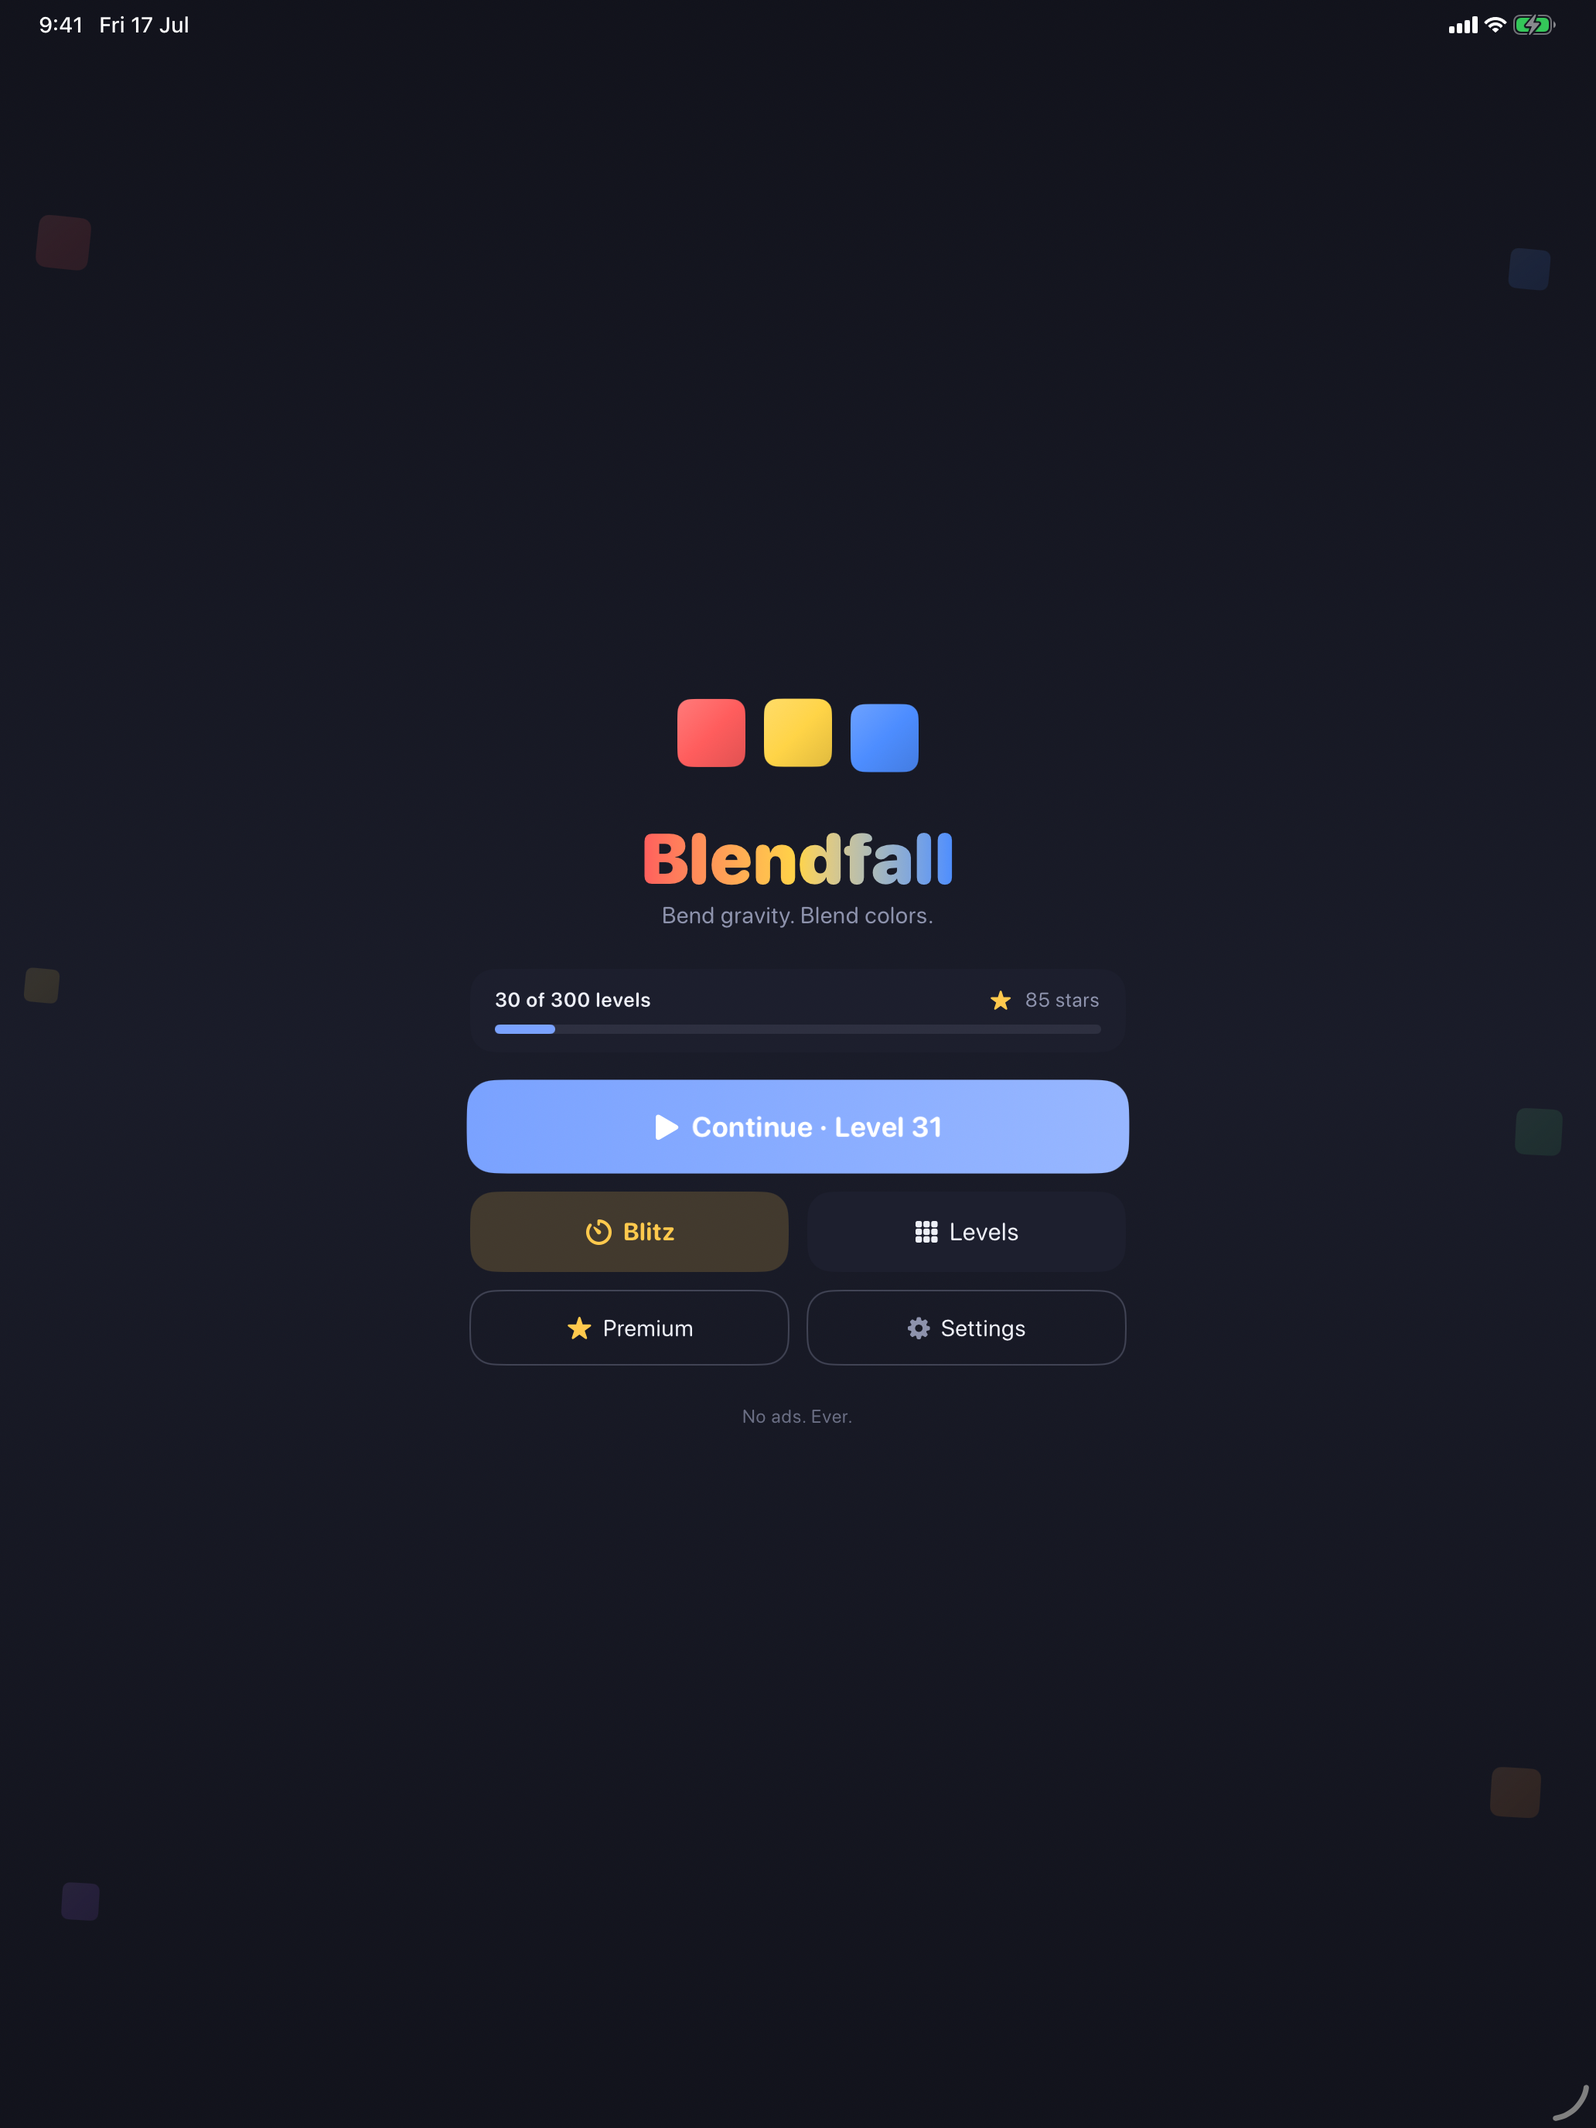
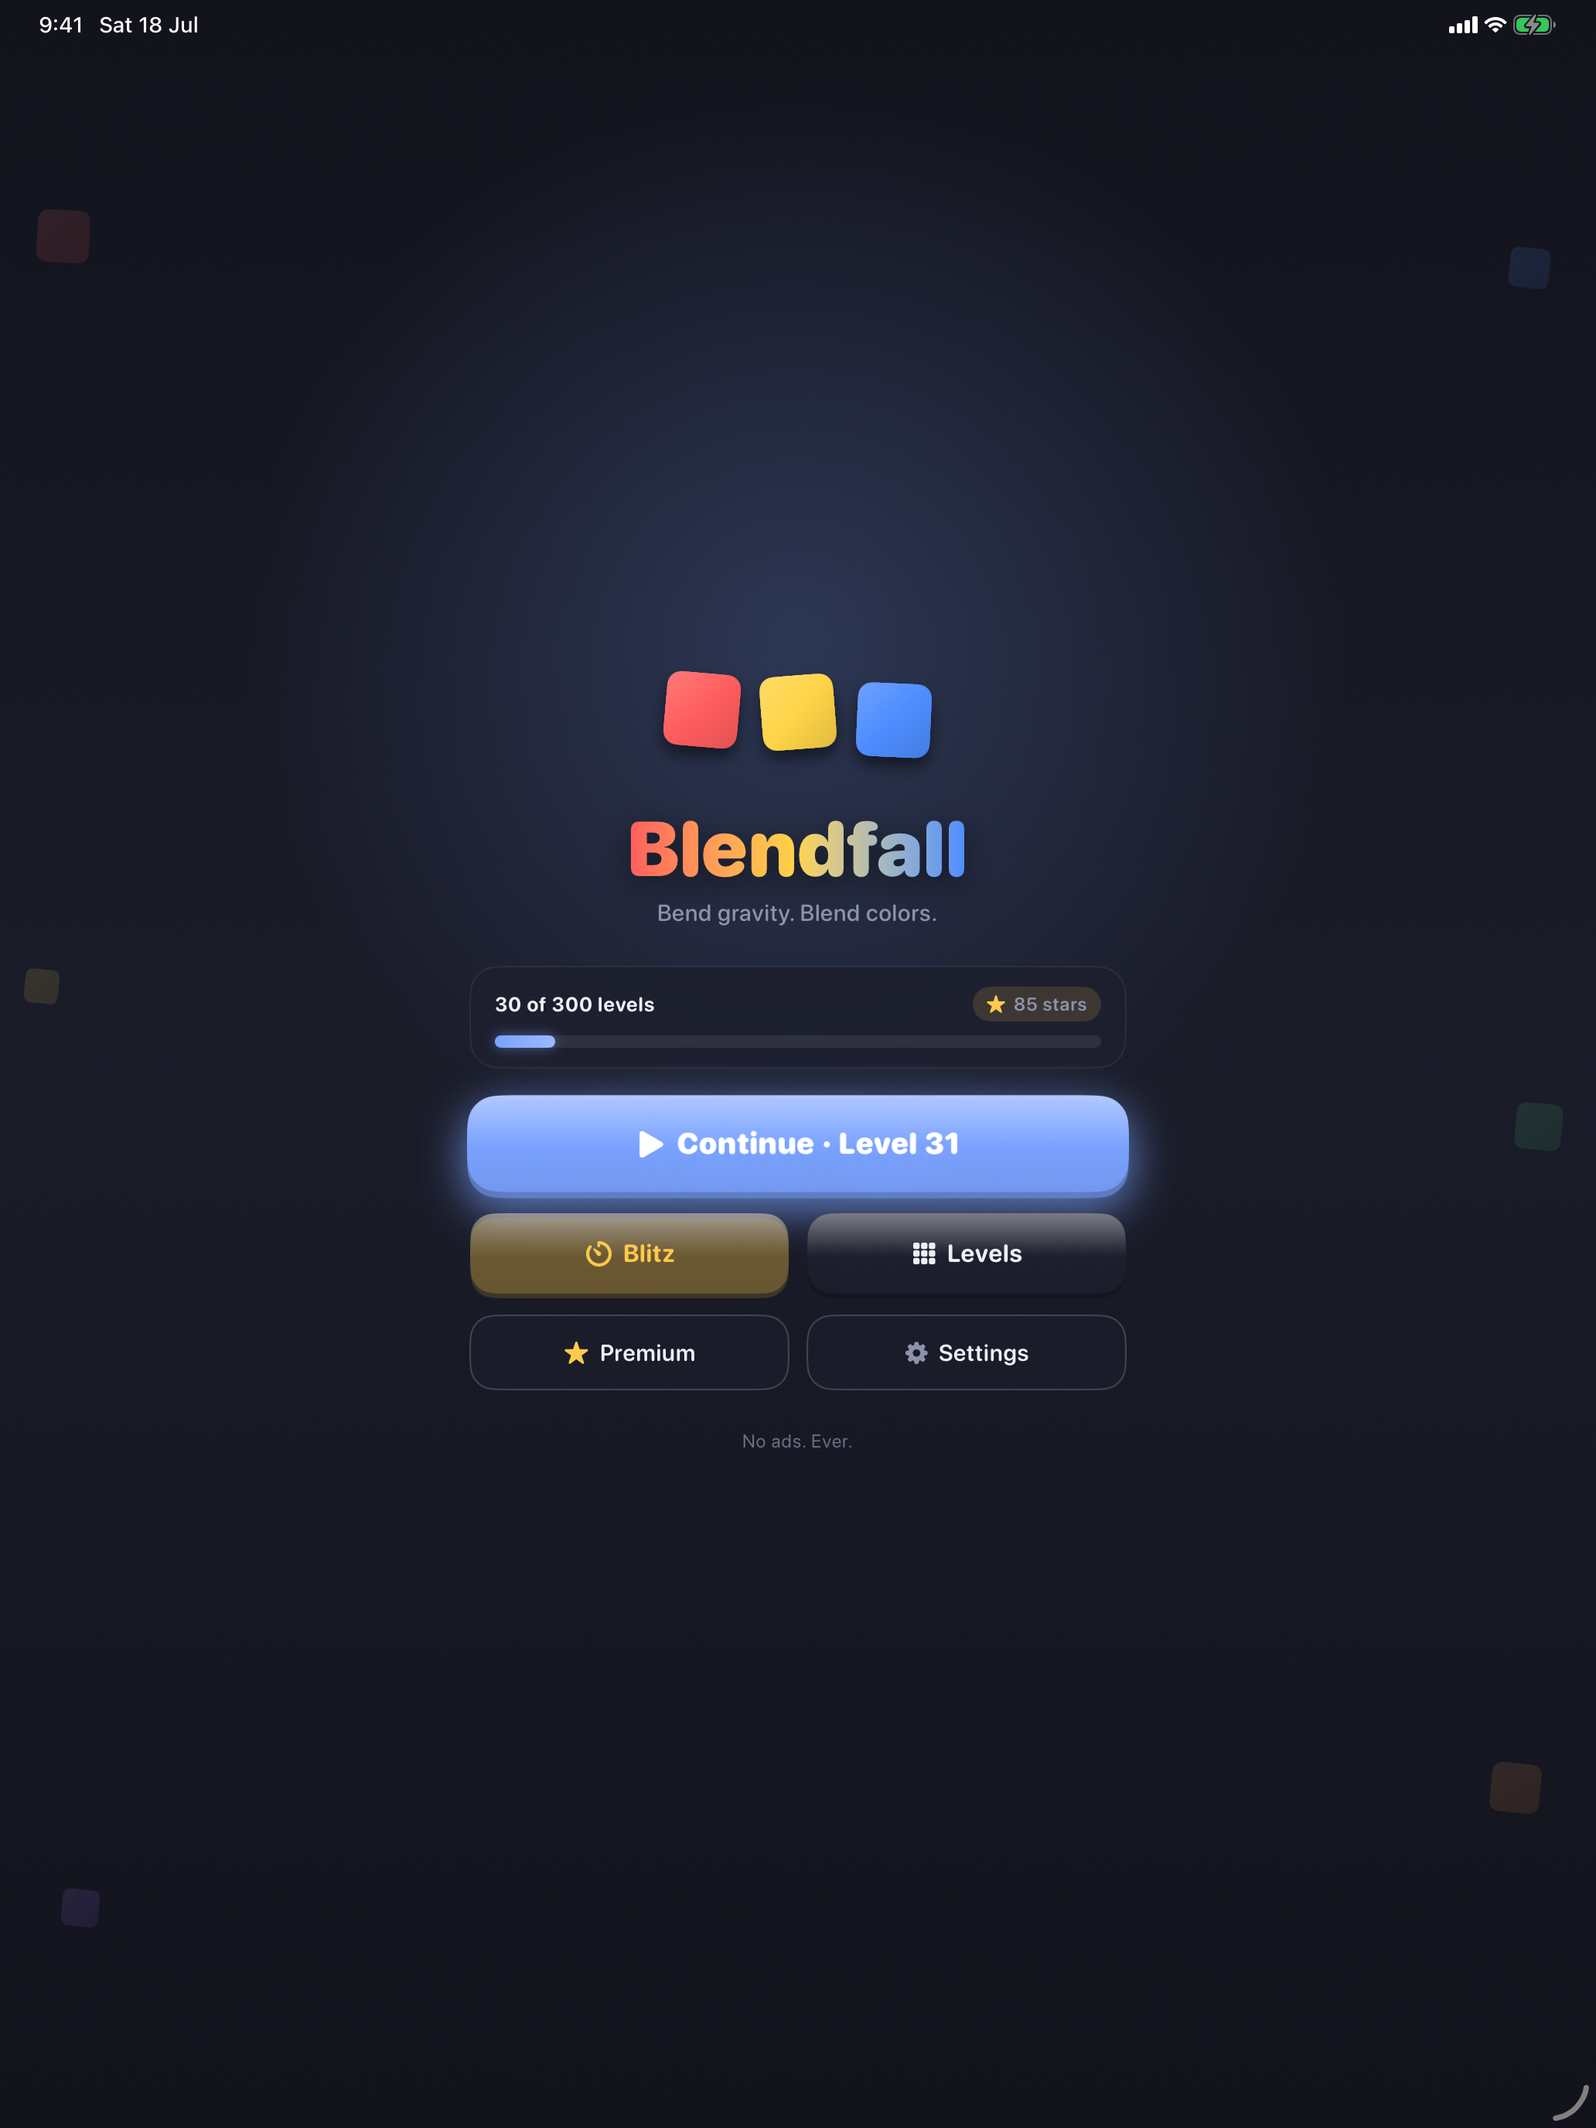
store

diff --git a/Blendfall/Screens/HomeScreen.swift b/Blendfall/Screens/HomeScreen.swift
@@ -2,9 +2,9 @@
 //  HomeScreen.swift
 //  Blendfall
 //
-//  The title screen: bouncing logo blocks over a soft gradient, drifting
-//  background blocks, progress card, and the Play / Blitz / Levels /
-//  Premium / Settings buttons.
+//  The title screen: bouncing logo blocks over a soft gradient with a warm
+//  glow, drifting background blocks, progress card, and chunky glossy
+//  Play / Blitz / Levels / Premium / Settings buttons.
 //
 
 import SwiftUI
@@ -31,17 +31,26 @@ struct HomeScreen: View {
             )
             .ignoresSafeArea()
 
+            // Warm spotlight behind the title so the menu has a stage.
+            RadialGradient(
+                colors: [palette.accent.opacity(palette.isDark ? 0.22 : 0.14), .clear],
+                center: UnitPoint(x: 0.5, y: 0.30),
+                startRadius: 10,
+                endRadius: 360
+            )
+            .ignoresSafeArea()
+
             FloatingBlocks(palette: palette, shape: progress.shape)
 
             VStack(spacing: 0) {
                 Spacer()
 
                 BouncingBlocks(palette: palette, shape: progress.shape)
-                    .padding(.bottom, 18)
+                    .padding(.bottom, 22)
 
                 // The title itself is a blend — red into yellow into blue.
                 Text(s[.app_name])
-                    .font(.system(size: 46, weight: .black, design: .rounded))
+                    .font(.system(size: 50, weight: .black, design: .rounded))
                     .foregroundStyle(
                         LinearGradient(
                             colors: [
@@ -53,9 +62,11 @@ struct HomeScreen: View {
                             endPoint: .trailing
                         )
                     )
+                    .shadow(color: .black.opacity(palette.isDark ? 0.45 : 0.16), radius: 10, y: 5)
                 Text(s[.home_tagline])
-                    .font(.system(size: 15, design: .rounded))
+                    .font(.system(size: 15, weight: .medium, design: .rounded))
                     .foregroundStyle(palette.textSecondary)
+                    .padding(.top, 2)
 
                 Spacer().frame(height: 26)
 
@@ -74,25 +85,19 @@ struct HomeScreen: View {
                 } label: {
                     HStack(spacing: 8) {
                         Image(systemName: "play.fill")
-                            .font(.system(size: 18, weight: .bold))
+                            .font(.system(size: 19, weight: .bold))
                         Text(
                             solved > 0
                                 ? s.f(.home_continue, Levels.globalNumber(continueId))
                                 : s[.home_play]
                         )
-                        .font(.system(size: 18, weight: .bold, design: .rounded))
+                        .font(.system(size: 19, weight: .black, design: .rounded))
                     }
                     .foregroundStyle(.white)
                     .frame(maxWidth: .infinity)
-                    .frame(height: 60)
-                    .background(
-                        LinearGradient(
-                            colors: [palette.accent, palette.accent.lighten(0.22)],
-                            startPoint: .leading,
-                            endPoint: .trailing
-                        ),
-                        in: RoundedRectangle(cornerRadius: 18)
-                    )
+                    .frame(height: 62)
+                    .chunky(fill: palette.accent, corner: 20, lip: 4)
+                    .shadow(color: palette.accent.opacity(0.45), radius: 14, y: 8)
                 }
                 .buttonStyle(PressableButtonStyle())
                 .scaleEffect(playPulse ? 1.025 : 1)
@@ -102,7 +107,7 @@ struct HomeScreen: View {
                     }
                 }
 
-                Spacer().frame(height: 12)
+                Spacer().frame(height: 14)
 
                 HStack(spacing: 12) {
                     Button(action: onBlitz) {
@@ -112,10 +117,10 @@ struct HomeScreen: View {
                             Text(s[.home_blitz])
                                 .font(.system(size: 16, weight: .bold, design: .rounded))
                         }
-                        .foregroundStyle(palette.star)
+                        .foregroundStyle(palette.isDark ? palette.star : palette.star.darken(0.25))
                         .frame(maxWidth: .infinity)
                         .frame(height: 52)
-                        .background(palette.star.opacity(0.18), in: RoundedRectangle(cornerRadius: 16))
+                        .chunky(fill: palette.star.opacity(palette.isDark ? 0.24 : 0.30), corner: 16, lip: 3)
                     }
                     .buttonStyle(PressableButtonStyle())
 
@@ -124,17 +129,17 @@ struct HomeScreen: View {
                             Image(systemName: "square.grid.3x3.fill")
                                 .font(.system(size: 14, weight: .semibold))
                             Text(s[.packs_title])
-                                .font(.system(size: 16, design: .rounded))
+                                .font(.system(size: 16, weight: .bold, design: .rounded))
                         }
                         .foregroundStyle(palette.textPrimary)
                         .frame(maxWidth: .infinity)
                         .frame(height: 52)
-                        .background(palette.surface, in: RoundedRectangle(cornerRadius: 16))
+                        .chunky(fill: palette.surface, corner: 16, lip: 3)
                     }
                     .buttonStyle(PressableButtonStyle())
                 }
 
-                Spacer().frame(height: 12)
+                Spacer().frame(height: 14)
 
                 HStack(spacing: 12) {
                     OutlineButton(palette: palette) {
@@ -144,7 +149,7 @@ struct HomeScreen: View {
                             .font(.system(size: 14))
                             .foregroundStyle(palette.star)
                         Text(s[.home_premium])
-                            .font(.system(size: 15, design: .rounded))
+                            .font(.system(size: 15, weight: .semibold, design: .rounded))
                             .foregroundStyle(progress.premium ? palette.star : palette.textPrimary)
                     }
 
@@ -155,7 +160,7 @@ struct HomeScreen: View {
                             .font(.system(size: 14))
                             .foregroundStyle(palette.textSecondary)
                         Text(s[.home_settings])
-                            .font(.system(size: 15, design: .rounded))
+                            .font(.system(size: 15, weight: .semibold, design: .rounded))
                             .foregroundStyle(palette.textPrimary)
                     }
                 }
@@ -174,6 +179,42 @@ struct HomeScreen: View {
     }
 }
 
+// MARK: - Chunky game-button surface
+
+private extension View {
+    /// The candy-button look: extruded darker lip below, vertical sheen on the
+    /// face and a soft gloss cap — the same language as the app icon blocks.
+    func chunky(fill: Color, corner: CGFloat, lip: CGFloat) -> some View {
+        background(
+            ZStack {
+                RoundedRectangle(cornerRadius: corner)
+                    .fill(fill.darken(0.32))
+                    .offset(y: lip)
+                RoundedRectangle(cornerRadius: corner)
+                    .fill(
+                        LinearGradient(
+                            colors: [fill.lighten(0.16), fill, fill.darken(0.06)],
+                            startPoint: .top,
+                            endPoint: .bottom
+                        )
+                    )
+                RoundedRectangle(cornerRadius: corner)
+                    .fill(
+                        LinearGradient(
+                            stops: [
+                                .init(color: .white.opacity(0.30), location: 0),
+                                .init(color: .white.opacity(0.06), location: 0.42),
+                                .init(color: .clear, location: 0.55),
+                            ],
+                            startPoint: .top,
+                            endPoint: .bottom
+                        )
+                    )
+            }
+        )
+    }
+}
+
 private struct OutlineButton<Label: View>: View {
     let palette: BlendPalette
     let action: () -> Void
@@ -184,6 +225,7 @@ private struct OutlineButton<Label: View>: View {
             HStack(spacing: 6) { label }
                 .frame(maxWidth: .infinity)
                 .frame(height: 48)
+                .background(palette.surface.opacity(palette.isDark ? 0.45 : 0.6), in: RoundedRectangle(cornerRadius: 16))
                 .overlay(
                     RoundedRectangle(cornerRadius: 16)
                         .stroke(palette.textSecondary.opacity(0.35), lineWidth: 1)
@@ -248,33 +290,49 @@ private struct ProgressCard: View {
     let s: Strings
 
     var body: some View {
-        VStack(spacing: 8) {
+        VStack(spacing: 9) {
             HStack {
                 Text(s.f(.home_progress, solved, total))
-                    .font(.system(size: 13, weight: .semibold, design: .rounded))
+                    .font(.system(size: 13, weight: .bold, design: .rounded))
                     .foregroundStyle(palette.textPrimary)
                 Spacer()
-                Image(systemName: "star.fill")
-                    .font(.system(size: 12))
-                    .foregroundStyle(palette.star)
-                Text(s.f(.home_stars, stars))
-                    .font(.system(size: 13, design: .rounded))
-                    .foregroundStyle(palette.textSecondary)
+                HStack(spacing: 4) {
+                    Image(systemName: "star.fill")
+                        .font(.system(size: 11))
+                        .foregroundStyle(palette.star)
+                    Text(s.f(.home_stars, stars))
+                        .font(.system(size: 12, weight: .semibold, design: .rounded))
+                        .foregroundStyle(palette.textSecondary)
+                }
+                .padding(.horizontal, 8)
+                .padding(.vertical, 4)
+                .background(palette.star.opacity(0.14), in: Capsule())
             }
             GeometryReader { geo in
                 ZStack(alignment: .leading) {
-                    RoundedRectangle(cornerRadius: 3)
+                    Capsule()
                         .fill(palette.textSecondary.opacity(0.15))
-                    RoundedRectangle(cornerRadius: 3)
-                        .fill(palette.accent)
-                        .frame(width: geo.size.width * min(1, Double(solved) / Double(total)))
+                    Capsule()
+                        .fill(
+                            LinearGradient(
+                                colors: [palette.accent, palette.accent.lighten(0.25)],
+                                startPoint: .leading,
+                                endPoint: .trailing
+                            )
+                        )
+                        .frame(width: max(8, geo.size.width * min(1, Double(solved) / Double(total))))
+                        .shadow(color: palette.accent.opacity(0.5), radius: 4)
                 }
             }
-            .frame(height: 6)
+            .frame(height: 8)
         }
         .padding(.horizontal, 16)
-        .padding(.vertical, 12)
-        .background(palette.surface.opacity(0.85), in: RoundedRectangle(cornerRadius: 16))
+        .padding(.vertical, 13)
+        .background(palette.surface.opacity(0.9), in: RoundedRectangle(cornerRadius: 18))
+        .overlay(
+            RoundedRectangle(cornerRadius: 18)
+                .stroke(palette.textSecondary.opacity(0.12), lineWidth: 1)
+        )
     }
 }
 
@@ -285,10 +343,12 @@ private struct BouncingBlocks: View {
     @State private var bounce = false
 
     var body: some View {
-        HStack(alignment: .bottom, spacing: 12) {
+        HStack(alignment: .bottom, spacing: 14) {
             ForEach(Array([GameColor.red, .yellow, .blue].enumerated()), id: \.offset) { i, color in
                 BlockView(color: color, palette: palette, shape: shape)
-                    .frame(width: 44, height: 44)
+                    .frame(width: 48, height: 48)
+                    .shadow(color: .black.opacity(palette.isDark ? 0.5 : 0.22), radius: 5, y: 6)
+                    .rotationEffect(.degrees(bounce ? (i.isMultiple(of: 2) ? 5 : -5) : 0))
                     .offset(y: bounce ? -14 : 0)
                     .animation(
                         .easeInOut(duration: 0.52).repeatForever(autoreverses: true).delay(Double(i) * 0.14),

diff --git a/Blendfall/Levels/GeneratedLevels.swift b/Blendfall/Levels/GeneratedLevels.swift
@@ -4,6 +4,8 @@
 //
 //  GENERATED from the Android app's GeneratedLevels.kt — do not edit by hand.
 //  260 solver-verified levels, packs 5..30, par == BFS-optimal.
+//  Exception: p7l7 and p8l3 were re-authored (the originals were mirror/rotation
+//  twins of p7l6 and p7l1); both replacements are BFS-verified at par 3.
 //
 
 import Foundation
@@ -46,7 +48,7 @@ nonisolated enum GeneratedLevels {
             l(6, 3, 3, "######", "#Y...#", "#....#", "#..Bg#", "######"),
             l(6, 4, 3, "#####", "#...#", "#yR.#", "##.Y#", "#####"),
             l(6, 5, 3, "#####", "#..B#", "#pR.#", "#####"),
-            l(6, 6, 3, "#####", "#.Rp#", "#B..#", "#####"),
+            l(6, 6, 3, "#####", "#R#p#", "#B..#", "#####"),
             l(6, 7, 3, "#####", "#g.B#", "#.Y.#", "#.R##", "#####"),
             l(6, 8, 3, "######", "#pB..#", "#..R.#", "######"),
             l(6, 9, 3, "#####", "#...#", "#BYY#", "#..g#", "#####"),
@@ -54,7 +56,7 @@ nonisolated enum GeneratedLevels {
         Pack(id: 7, nameKey: .pack_8_name, premium: false, levels: [
             l(7, 0, 3, "######", "#...R#", "#B.pB#", "######"),
             l(7, 1, 3, "######", "#..YR#", "#.#Y.#", "#..#o#", "######"),
-            l(7, 2, 3, "######", "#.Y.##", "#R..o#", "######"),
+            l(7, 2, 3, "######", "#R...#", "#.#oY#", "######"),
             l(7, 3, 3, "#####", "#..B#", "#Y..#", "#g..#", "#####"),
             l(7, 4, 3, "#####", "#..y#", "##.R#", "#Y..#", "#####"),
             l(7, 5, 3, "#####", "#.###", "#.BY#", "#g..#", "#####"),
